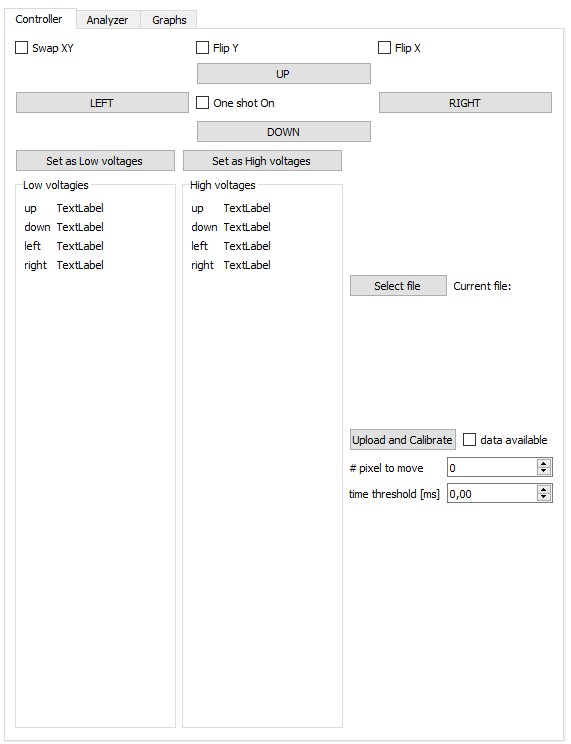
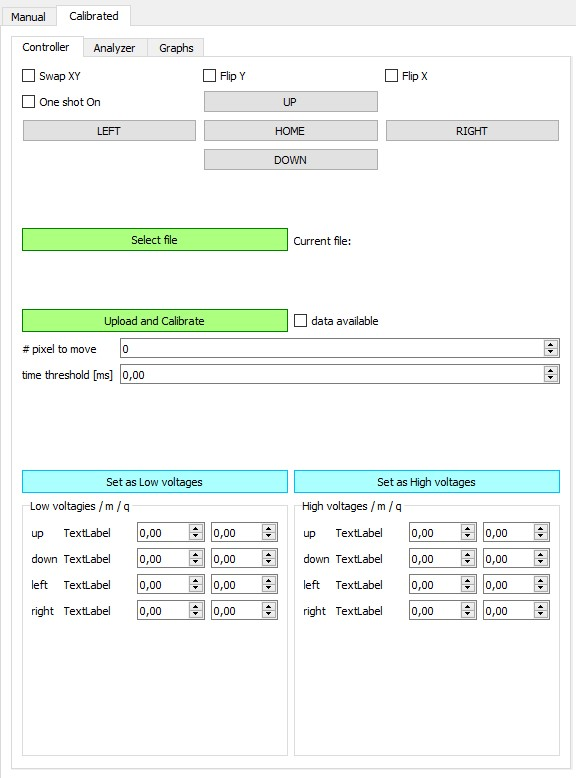
Aggiunto Possible GUIs

Changed region(s): [[0.0, 0.0, 0.9825, 1.0], [0.9825, 0.0309, 1.0, 0.0618]]

diff --git a/Latex/corpo/capitoli/PAT-SW.tex b/Latex/corpo/capitoli/PAT-SW.tex
@@ -30,9 +30,98 @@ sensor. The controllers available are the same of the mirror-camera-pc setup.
 In this setup we have the pc connected only to the KPA101, the KPA101 is
 then connected to the mirror and to the PSD. Here we have three types of controllers available: \textbf{manual}, \textbf{calibrated}, \textbf{PIDKPA101}. Manual and calibrated are the same as the previous point. PIDKPA101 use the integrated PID-controller available in the KPA101.
 
-
 \lvliii{Possible GUIs}
 
+\img{gui}{Main GUI of the program.}
+
+We can divide the GUI into two parts: the left side show the sensor
+information, the right side show the controllers information.
+
+In the sensor's side we have (form the top):
+
+\begin{itemize}
+  \itemsep1pt\parskip0pt\parsep0pt
+  \item
+        the frame rendering that contains three objects:
+  \item
+        the red dots represents the centroid of the beam;
+  \item
+        the red square represents the area where the controller calculates the
+        centroid;
+  \item
+        the green circle represents the target;
+  \item
+        the set of parameters of the camera/PSD;
+  \item
+        the set of parameters to position the target;
+  \item
+        the plotter that show in real time the distances in pixels between the
+        target and the centroid.
+\end{itemize}
+
+In the controller's side we have: manual controller, calibrated
+controller and PIDKPA101 controller (only for PSD). The Manual
+controller and the PID controller are self explanatory. In the manual
+controller you set voltages and times to optimize the joystick that will
+be use for the movement.
+
+In the PIDKPA101 after chose the PID parameters press \emph{enable PID}
+to start the controller. The \emph{auto open closed loop} is used to
+disable the controller when the intensity of the beam go outside the
+threshold range.
+
+The calibrated controller is more complex so I reserve a separate
+section for it.
+
+\lvliv{Calibrated controller}
+
+\imgThree{0.3}{calibrated1}{Controller interface.}{0.3}{calibrated2}{Analyzer interface.}{0.3}{calibrated3}{Graph interface.}
+
+The aim of this controller is to be able to use the \emph{One shot
+  controller}, but before to be able to use it we need to calibrate the
+controller. The calibration procedure can be decomposed into two parts:
+data acquisition, data analysis.
+
+\paragraph{Data acquisition}
+
+In this phase we want to acquire the calibration points. The procedure
+is the following:
+
+\begin{itemize}
+  \itemsep1pt\parskip0pt\parsep0pt
+  \item
+        in the \emph{Analyzer} tab set the voltages and the time interval;
+  \item
+        autogenerate the filename;
+  \item
+        start the point acquisition.
+\end{itemize}
+
+\paragraph{Data analysis}
+
+In this phase we want to analyze the calibration points store into a
+file. The procedure is the following:
+
+\begin{itemize}
+  \itemsep1pt\parskip0pt\parsep0pt
+  \item
+        in the \emph{Controller} tab select the file and press \emph{Upload
+          and Calibrated};
+  \item
+        go into \emph{Graphs} tab and check that the analysis is completed
+        correctly;
+  \item
+        if everything is ok then go into the \emph{Controller} tab and set the
+        configuration to the low voltages or high voltages pressing the
+        corresponding button.
+\end{itemize}
+
+\paragraph{One shot controller}
+
+When you have chose both low and high voltages you are ready to press
+the button to enable the controller in the \emph{Controller} tab. To
+swap between high and low voltages you can set the time movement
+threshold in the same tab.
 
 \lvlii{The classes}
 
